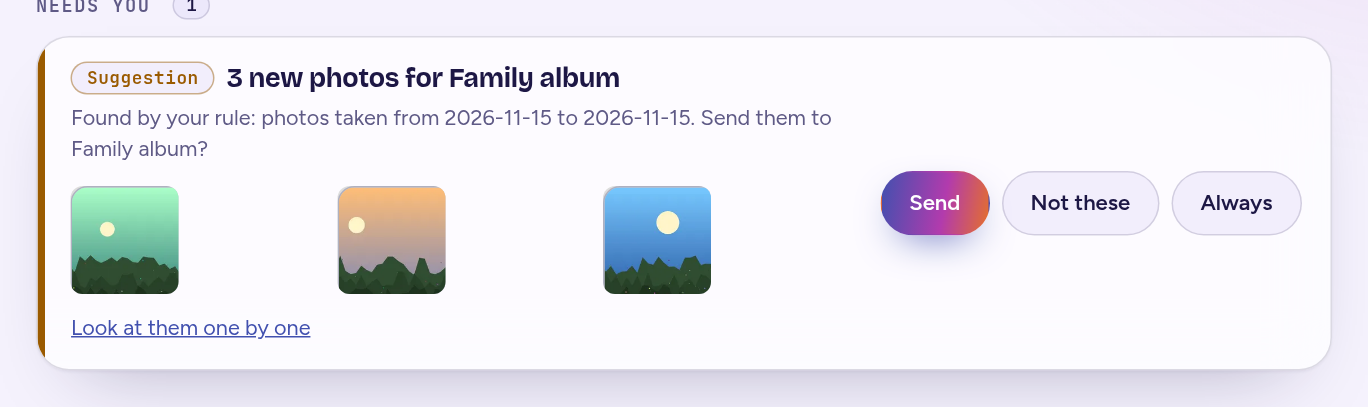
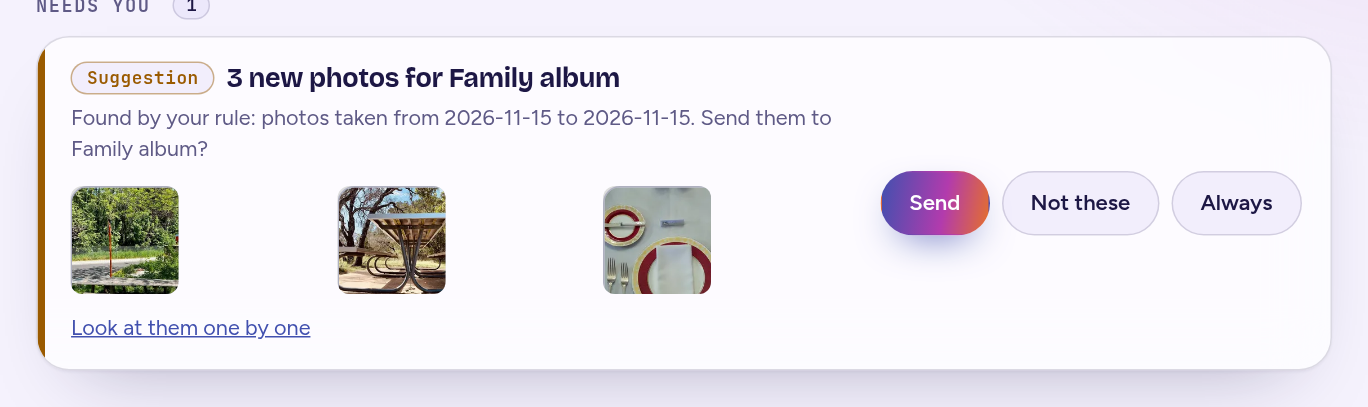
docs: the demo and its pictures use public-domain photos (with their credits) instead of generated landscapes

Changed region(s): [[0.0307, 0.4423, 0.1535, 0.7371], [0.4298, 0.4423, 0.5219, 0.7371], [0.2456, 0.4423, 0.3377, 0.7371]]

diff --git a/demo/seed.py b/demo/seed.py
@@ -1,6 +1,6 @@
 #!/usr/bin/env python3
 """Fills the demonstration (run by the `seed` service of demo/docker-compose.yml, once): an Immich administrator, three people, sample photos, and a little history in the app."""
-import io, json, math, os, random, sys, time, urllib.request, urllib.error, uuid
+import io, json, os, sys, time, urllib.request, urllib.error, uuid
 from datetime import datetime, timedelta, timezone
 from PIL import Image, ImageDraw, ImageFilter
 
@@ -39,52 +39,30 @@ def login(email, pw):
     cookies = "; ".join(c.split(";")[0] for c in h.get_all("Set-Cookie") or [])
     return j["accessToken"], cookies
 
-# ---- pictures: scenes with a sky, a sun, hills and some texture, so each one is different and sharp --------------------
-def scene(seed, w=1600, h=1067):
-    r = random.Random(seed)
-    palettes = [((255, 190, 120), (90, 120, 200)), ((120, 200, 255), (20, 60, 140)), ((255, 140, 160), (70, 40, 120)), ((250, 230, 150), (50, 150, 120)),
-                ((200, 220, 255), (60, 80, 120)), ((255, 170, 90), (40, 20, 60)), ((170, 255, 200), (20, 90, 100))]
-    top, bottom = palettes[seed % len(palettes)]
-    img = Image.new("RGB", (w, h))
-    px = img.load()
-    for y in range(h):
-        t = y / h
-        c = tuple(int(top[i] * (1 - t) + bottom[i] * t) for i in range(3))
-        for x in range(w): px[x, y] = c
-    d = ImageDraw.Draw(img)
-    sx, sy, sr = r.randint(w // 5, 4 * w // 5), r.randint(h // 8, h // 3), r.randint(50, 110)
-    d.ellipse([sx - sr, sy - sr, sx + sr, sy + sr], fill=(255, 245, 200))
-    for layer in range(4):
-        base = h * (0.55 + layer * 0.1)
-        col = tuple(max(0, int(c * (0.55 - layer * 0.1))) for c in (90, 140, 90))
-        pts = [(0, h)]
-        for x in range(0, w + 40, 40):
-            pts.append((x, base + 60 * math.sin(x / (110 + layer * 40) + r.random() * 6) + r.randint(-18, 18)))
-        pts.append((w, h))
-        d.polygon(pts, fill=col)
-    for _ in range(900):  # grain and detail, so the picture is sharp
-        x, y = r.randint(0, w - 1), r.randint(h // 2, h - 1)
-        d.point((x, y), fill=tuple(r.randint(30, 200) for _ in range(3)))
-    for _ in range(70):
-        x, y = r.randint(0, w), r.randint(h // 2, h)
-        d.rectangle([x, y, x + r.randint(2, 9), y + r.randint(2, 9)], fill=tuple(r.randint(20, 220) for _ in range(3)))
-    return img
+# ---- pictures: real photos from demo/photos (public domain, see photos/CREDITS.md) ----------------------------------------
+PHOTOS = os.path.join(os.path.dirname(os.path.abspath(__file__)), "photos")
+# who has what: Alice a trip to Innsbruck, Bob a party, Carol travels (the numbers are the file names' prefixes)
+OWNS = {1: [26, 27, 28, 29, 30, 32, 33], 2: [1, 3, 16, 17, 20, 25, 18], 3: [34, 35, 36, 37, 7, 10, 11]}
+
+def photo_file(n):
+    return next(f for f in sorted(os.listdir(PHOTOS)) if f.startswith(f"{n:02d}-"))
 
 def jpeg(img):
     b = io.BytesIO(); img.save(b, "JPEG", quality=88); return b.getvalue()
 
 def photos(owner_seed):
+    """Seven real photos, a near-duplicate of the first (for the duplicate check), a too-dark one and a blurry one."""
+    files = [photo_file(n) for n in OWNS[owner_seed]]
     out = []
-    for i in range(6):
-        out.append((f"scene-{owner_seed}-{i + 1}.jpg", jpeg(scene(owner_seed * 10 + i))))
-    base = scene(owner_seed * 10 + 7)
-    out.append((f"twin-a-{owner_seed}.jpg", jpeg(base)))
-    twin = base.copy(); twin.putpixel((5, 5), (1, 2, 3)); d = ImageDraw.Draw(twin); d.ellipse([20, 20, 60, 60], fill=(250, 250, 250))
-    out.append((f"twin-b-{owner_seed}.jpg", jpeg(twin)))
-    dark = scene(owner_seed * 10 + 8).point(lambda v: int(v * 0.06))
-    out.append((f"too-dark-{owner_seed}.jpg", jpeg(dark)))
-    blur = scene(owner_seed * 10 + 9).filter(ImageFilter.GaussianBlur(26))
-    out.append((f"blurry-{owner_seed}.jpg", jpeg(blur)))
+    for f in files:
+        out.append((f, open(os.path.join(PHOTOS, f), "rb").read()))
+    first = Image.open(os.path.join(PHOTOS, files[0])).convert("RGB")
+    twin = first.copy(); twin.putpixel((5, 5), (1, 2, 3)); d = ImageDraw.Draw(twin); d.ellipse([20, 20, 60, 60], fill=(250, 250, 250))
+    out.append(("twin-" + files[0], jpeg(twin)))
+    dark = Image.open(os.path.join(PHOTOS, files[1])).convert("RGB").point(lambda v: int(v * 0.06))
+    out.append(("too-dark-" + files[1], jpeg(dark)))
+    blur = Image.open(os.path.join(PHOTOS, files[2])).convert("RGB").filter(ImageFilter.GaussianBlur(26))
+    out.append(("blurry-" + files[2], jpeg(blur)))
     return out
 
 def upload(token, name, data, when):
@@ -125,7 +103,7 @@ def main():
         for i, (fname, data) in enumerate(photos(n)):
             ids[name].append(upload(tokens[name], fname, data, now - timedelta(days=7 - i % 6, hours=i)))
         print(name, "has", len(ids[name]), "photos")
-    s, album, _ = call("POST", IMMICH + "/albums", {"albumName": "Holiday", "assetIds": ids["alice"][:6]}, {"Authorization": "Bearer " + tokens["alice"]})
+    s, album, _ = call("POST", IMMICH + "/albums", {"albumName": "Holiday", "assetIds": ids["alice"][:7]}, {"Authorization": "Bearer " + tokens["alice"]})
     print("alice's album Holiday:", s)
 
     # a little history in the app: Alice offers "Family album" (open); Bob joins it and hands over five photos

diff --git a/tools/screenshots/inside.go b/tools/screenshots/inside.go
@@ -108,7 +108,9 @@ func insideShots(outdir string) {
 	// the viewer: the button, the list, the message
 	must("close the list", chromedp.KeyEvent("\x1b"))
 	var id string
-	must("a photo", chromedp.Evaluate(`document.querySelector('[data-thumbnail-focus-container]').dataset.asset`, &id))
+	tile := 3
+	fmt.Sscan(env("INSIDE_TILE", "3"), &tile) // which photo of the grid the viewer shows
+	must("a photo", chromedp.Evaluate(fmt.Sprintf(`document.querySelectorAll('[data-thumbnail-focus-container]')[%d].dataset.asset`, tile), &id))
 	must("open the viewer", chromedp.Navigate(base+"/photos/"+id))
 	wait("the button in the viewer", `document.getElementById('handoff-viewer-act') !== null`)
 	time.Sleep(1500 * time.Millisecond)

diff --git a/demo/photos/CREDITS.md b/demo/photos/CREDITS.md
@@ -1,0 +1,50 @@
+# Photo credits
+
+The sample photos in this folder are from Wikimedia Commons. Each one is released under CC0 or is in the public domain, as its file page says (checked on the day they were added). They are reduced to 1280 pixels wide and stripped of metadata; nothing else is changed. CC0 and public-domain works need no attribution, and it is given here anyway.
+
+| File | Title on Commons | Author | License | Source |
+|---|---|---|---|---|
+| 01-birthday-cake-bloomsburg-pennsylvania.jpg | Birthday Cake Bloomsburg, Pennsylvania.jpg | Tim-desser | CC0 | [file page](https://commons.wikimedia.org/wiki/File:Birthday_Cake_Bloomsburg,_Pennsylvania.jpg) |
+| 02-dinner-candle-on-table-at-night.jpg | Dinner candle on table at night.jpg | Sabalo22 | CC0 | [file page](https://commons.wikimedia.org/wiki/File:Dinner_candle_on_table_at_night.jpg) |
+| 03-flower-bouquet-2.jpg | Flower Bouquet-2.jpg | David Condrey | CC0 | [file page](https://commons.wikimedia.org/wiki/File:Flower_Bouquet-2.jpg) |
+| 04-flower-bouquet-edingen-neckarhausen.jpg | Flower bouquet, Edingen-Neckarhausen.jpg | Gerda Arendt | CC0 | [file page](https://commons.wikimedia.org/wiki/File:Flower_bouquet,_Edingen-Neckarhausen.jpg) |
+| 05-paper-lanterns-at-tongdosa-temple-01.jpg | Paper lanterns at Tongdosa Temple 01.jpg | Bernard Gagnon | CC0 | [file page](https://commons.wikimedia.org/wiki/File:Paper_lanterns_at_Tongdosa_Temple_01.jpg) |
+| 06-paper-lanterns-at-tongdosa-temple-02.jpg | Paper lanterns at Tongdosa Temple 02.jpg | Bernard Gagnon | CC0 | [file page](https://commons.wikimedia.org/wiki/File:Paper_lanterns_at_Tongdosa_Temple_02.jpg) |
+| 07-juan-griego-sunset.jpg | Juan Griego Sunset.jpg | Wilfredor | CC0 | [file page](https://commons.wikimedia.org/wiki/File:Juan_Griego_Sunset.jpg) |
+| 08-moraine-lake-17092005.jpg | Moraine Lake 17092005.jpg | Gorgo | Public domain | [file page](https://commons.wikimedia.org/wiki/File:Moraine_Lake_17092005.jpg) |
+| 09-herzog-friedrich-stra-e-in-innsbruck-s-h.jpg | Herzog-Friedrich-Straße in Innsbruck's Historic Old Town, Austria.jpg | Wilfredor | CC0 | [file page](https://commons.wikimedia.org/wiki/File:Herzog-Friedrich-Stra%C3%9Fe_in_Innsbruck%27s_Historic_Old_Town,_Austria.jpg) |
+| 10-forest-path-to-roche-du-taureau-cl-ron-2.jpg | Forest path to Roche du Taureau, Cléron, 2026.jpg | DimiTalen | CC0 | [file page](https://commons.wikimedia.org/wiki/File:Forest_path_to_Roche_du_Taureau,_Cl%C3%A9ron,_2026.jpg) |
+| 11-utah-dunes-landscape-west-desert-distric.jpg | Utah Dunes Landscape - West Desert District.jpg | Bureau of Land Management - Utah/Bob Wick | Public domain | [file page](https://commons.wikimedia.org/wiki/File:Utah_Dunes_Landscape_-_West_Desert_District.jpg) |
+| 12-a-wood-cabin-in-the-snow-unsplash.jpg | A wood cabin in the snow (Unsplash).jpg | Patrick Tomasso impatrickt | CC0 | [file page](https://commons.wikimedia.org/wiki/File:A_wood_cabin_in_the_snow_(Unsplash).jpg) |
+| 13-cat-sleeping-on-keyboard.jpg | Cat Sleeping on Keyboard.jpg | Panini! | CC0 | [file page](https://commons.wikimedia.org/wiki/File:Cat_Sleeping_on_Keyboard.jpg) |
+| 14-picnic-table-hoveniersdreef-heverlee.jpg | Picnic table Hoveniersdreef Heverlee.jpg | Landolso | CC0 | [file page](https://commons.wikimedia.org/wiki/File:Picnic_table_Hoveniersdreef_Heverlee.jpg) |
+| 15-picnic-table-curves.jpg | Picnic table curves.jpg | Hu Nhu | CC0 | [file page](https://commons.wikimedia.org/wiki/File:Picnic_table_curves.jpg) |
+| 16-pink-cupcakes.jpg | Pink Cupcakes.jpg | Jess Watters | CC0 | [file page](https://commons.wikimedia.org/wiki/File:Pink_Cupcakes.jpg) |
+| 17-champagne-glasses-1940262-1920.jpg | Champagne-glasses-1940262 1920.jpg | Myriam Zilles | CC0 | [file page](https://commons.wikimedia.org/wiki/File:Champagne-glasses-1940262_1920.jpg) |
+| 18-champagne-glasses-1.jpg | Champagne glasses 1.JPG | Antonio Borrillo | CC0 | [file page](https://commons.wikimedia.org/wiki/File:Champagne_glasses_1.JPG) |
+| 19-eisenhower-christmas-dinner-table-settin.jpg | Eisenhower Christmas Dinner Table Setting (0e4555ea-867c-4951-90d8-122d77544ebe).jpg | NPS Photo | Public domain | [file page](https://commons.wikimedia.org/wiki/File:Eisenhower_Christmas_Dinner_Table_Setting_(0e4555ea-867c-4951-90d8-122d77544ebe).jpg) |
+| 20-sparkler-at-night-unsplash.jpg | Sparkler at night (Unsplash).jpg | Karina Carvalho karinacarvalho | CC0 | [file page](https://commons.wikimedia.org/wiki/File:Sparkler_at_night_(Unsplash).jpg) |
+| 21-sparkler-traphillnc.jpg | Sparkler@TraphillNC.jpg | Kelley Bozarth | CC0 | [file page](https://commons.wikimedia.org/wiki/File:Sparkler@TraphillNC.jpg) |
+| 22-weddingring.jpg | Weddingring.JPG | CLW at English Wikipedia | Public domain | [file page](https://commons.wikimedia.org/wiki/File:Weddingring.JPG) |
+| 23-groom-touching-wedding-band-unsplash.jpg | Groom touching wedding band (Unsplash).jpg | Sweet Ice Cream Photography sweeticecreamphotography | CC0 | [file page](https://commons.wikimedia.org/wiki/File:Groom_touching_wedding_band_(Unsplash).jpg) |
+| 24-campfire-20221029-180021.jpg | Campfire 20221029 180021.jpg | 01x07x2022000 | CC0 | [file page](https://commons.wikimedia.org/wiki/File:Campfire_20221029_180021.jpg) |
+| 25-shop-of-lights-in-the-christmas-market-o.jpg | Shop of lights in the Christmas market of Strasbourg.jpg | Tangopaso | Public domain | [file page](https://commons.wikimedia.org/wiki/File:Shop_of_lights_in_the_Christmas_market_of_Strasbourg.jpg) |
+| 26-goldenes-dachl-from-innsbruck.jpg | Goldenes Dachl from Innsbruck.jpg | Wilfredor | CC0 | [file page](https://commons.wikimedia.org/wiki/File:Goldenes_Dachl_from_Innsbruck.jpg) |
+| 27-innsbruck-seen-from-lsg-nordkette-in-inn.jpg | Innsbruck seen from LSG Nordkette in Innsbruck-Arzl 2023-09-23 08.jpg | Leonhard Lenz | CC0 | [file page](https://commons.wikimedia.org/wiki/File:Innsbruck_seen_from_LSG_Nordkette_in_Innsbruck-Arzl_2023-09-23_08.jpg) |
+| 28-mariahilfstra-e-and-inn-in-innsbruck-202.jpg | Mariahilfstraße and Inn in Innsbruck 2026-05-07 09.jpg | Leonhard Lenz | CC0 | [file page](https://commons.wikimedia.org/wiki/File:Mariahilfstra%C3%9Fe_and_Inn_in_Innsbruck_2026-05-07_09.jpg) |
+| 29-mariahilfstra-e-and-inn-in-innsbruck-202.jpg | Mariahilfstraße and Inn in Innsbruck 2026-05-08 14.jpg | Leonhard Lenz | CC0 | [file page](https://commons.wikimedia.org/wiki/File:Mariahilfstra%C3%9Fe_and_Inn_in_Innsbruck_2026-05-08_14.jpg) |
+| 30-mariahilfstra-e-and-inn-in-innsbruck-202.jpg | Mariahilfstraße and Inn in Innsbruck 2026-05-10 02.jpg | Leonhard Lenz | CC0 | [file page](https://commons.wikimedia.org/wiki/File:Mariahilfstra%C3%9Fe_and_Inn_in_Innsbruck_2026-05-10_02.jpg) |
+| 31-innsbruck-in-the-evening.jpg | Innsbruck in the evening.jpg | Hermann Hammer (User:Haneburger) | CC0 | [file page](https://commons.wikimedia.org/wiki/File:Innsbruck_in_the_evening.jpg) |
+| 32-cable-car-at-hafelekar-station-innsbruck.jpg | Cable car at Hafelekar station, Innsbruck.jpg | Wilfredor | CC0 | [file page](https://commons.wikimedia.org/wiki/File:Cable_car_at_Hafelekar_station,_Innsbruck.jpg) |
+| 33-innsbruck-cathedral.jpg | Innsbruck Cathedral.jpg | Álvaro de la Paz Franco | CC0 | [file page](https://commons.wikimedia.org/wiki/File:Innsbruck_Cathedral.jpg) |
+| 34-coast-lighthouse-architecture.jpg | Coast Lighthouse Architecture.jpg | Holly's Coastal View | CC0 | [file page](https://commons.wikimedia.org/wiki/File:Coast_Lighthouse_Architecture.jpg) |
+| 35-banaue-rice-terrace-close-up-2.jpg | Banaue Rice Terrace Close Up (2).JPG | Agricmarketing at en.wikipedia | Public domain | [file page](https://commons.wikimedia.org/wiki/File:Banaue_Rice_Terrace_Close_Up_(2).JPG) |
+| 36-mt-hiei-with-cherry-blossom.jpg | Mt Hiei with Cherry Blossom.JPG | Hahifuheho | CC0 | [file page](https://commons.wikimedia.org/wiki/File:Mt_Hiei_with_Cherry_Blossom.JPG) |
+| 37-vineyard-and-hills-unsplash.jpg | Vineyard and hills (Unsplash).jpg | Tim Mossholder timmossholder | CC0 | [file page](https://commons.wikimedia.org/wiki/File:Vineyard_and_hills_(Unsplash).jpg) |
+| 38-new-brighton-beach-dog-exercise-area-09.jpg | New Brighton Beach dog exercise area 09.jpg | Aliceinthealice | CC0 | [file page](https://commons.wikimedia.org/wiki/File:New_Brighton_Beach_dog_exercise_area_09.jpg) |
+| 39-ducks-are-bathing-in-pond.jpg | Ducks are bathing in pond.jpg | Koshur | CC0 | [file page](https://commons.wikimedia.org/wiki/File:Ducks_are_bathing_in_pond.jpg) |
+| 40-coffee-and-recipe-on-a-table-unsplash.jpg | Coffee and recipe on a table (Unsplash).jpg | Brigitte Tohm brigittetohm | CC0 | [file page](https://commons.wikimedia.org/wiki/File:Coffee_and_recipe_on_a_table_(Unsplash).jpg) |
+| 41-blue-coffee-cup-unsplash.jpg | Blue coffee cup (Unsplash).jpg | rawpixel.com rawpixel | CC0 | [file page](https://commons.wikimedia.org/wiki/File:Blue_coffee_cup_(Unsplash).jpg) |
+| 42-paris-a-bookshop-with-filled-bookshelves.jpg | Paris - A bookshop with filled bookshelves and blurred light bulbs hanging from the ceiling.jpg | Janko Ferlič thepootphotographer | CC0 | [file page](https://commons.wikimedia.org/wiki/File:Paris_-_A_bookshop_with_filled_bookshelves_and_blurred_light_bulbs_hanging_from_the_ceiling.jpg) |
+
+No photo shows a recognisable person. If you find one that should not be here, please open an issue and it will be removed.

diff --git a/docs/find-handoff.md b/docs/find-handoff.md
@@ -56,7 +56,7 @@ Reload nginx, then reload an Immich page. If the page is `https://photos.example
 
 ## Hand over from inside Immich
 
-![Immich's photo viewer with the Hand over button in the toolbar and the list of services under it](images/immich-button-viewer-list.png)
+![Immich's photo viewer with the Hand over button in the toolbar and the list of services under it](images/immich-button-viewer-list.jpg)
 
 With the same one line in your proxy, the script also adds a **Hand over...** button to Immich's own pages, so nobody has to know about tags:
 
@@ -64,7 +64,7 @@ With the same one line in your proxy, the script also adds a **Hand over...** bu
 - in the **bar that appears when photos are selected**, before the three dots, for the selected photos;
 - as a **Hand over...** line in the three-dot menu of both.
 
-It opens a small list of **the services the person sends to**, each with whether the original stays or goes to the trash, and a note when photos will wait (the owner paused the service, the person paused their own sending, or a daily limit is reached). Choosing one hands the photos over exactly as if the service's tag had been put on them: the same pass, limits, quiet hours and taking back apply. A message in Immich's page says "3 photos handed over to Holiday" with **Undo** (it takes the tag off, so a pass that has not taken them yet leaves them) and a link to the app. ![A message in Immich's page: one photo handed over to Family album, with Undo and a link to the app](images/immich-button-done.png)
+It opens a small list of **the services the person sends to**, each with whether the original stays or goes to the trash, and a note when photos will wait (the owner paused the service, the person paused their own sending, or a daily limit is reached). Choosing one hands the photos over exactly as if the service's tag had been put on them: the same pass, limits, quiet hours and taking back apply. A message in Immich's page says "3 photos handed over to Holiday" with **Undo** (it takes the tag off, so a pass that has not taken them yet leaves them) and a link to the app. ![A message in Immich's page: one photo handed over to Family album, with Undo and a link to the app](images/immich-button-done.jpg)
 
 The service used last is offered first (kept in that browser only; **Forget my choice** clears it), and services whose owner decides appear under **Ask to join**, so a person can ask without leaving Immich. Words come in the person's language.
 

diff --git a/demo/README.md b/demo/README.md
@@ -14,11 +14,13 @@ Open **http://localhost:2295** and sign in to Immich as one of the people (passw
 
 | Who | Sign in | What they have |
 |---|---|---|
-| Alice | `alice@demo.test` | 10 photos, an album "Holiday", and two services she offers: **Family album** (open) and **Photo club** (she approves senders) |
-| Bob | `bob@demo.test` | 10 photos; he joined Family album and five of his photos were already handed over |
-| Carol | `carol@demo.test` | 10 photos, and no services yet: ask to join Photo club |
+| Alice | `alice@demo.test` | 10 photos (a trip to Innsbruck), an album "Holiday", and two services she offers: **Family album** (open) and **Photo club** (she approves senders) |
+| Bob | `bob@demo.test` | 10 photos (a party); he joined Family album and five of his photos were already handed over |
+| Carol | `carol@demo.test` | 10 photos (travels), and no services yet: ask to join Photo club |
 
 (The Immich administrator is `admin@demo.test` / `Demo-admin-1`.)
+
+The sample photos in `photos/` are public-domain or CC0 pictures from Wikimedia Commons, with no recognisable people; [`photos/CREDITS.md`](photos/CREDITS.md) lists the author, license and source of each. Each person also has a near-duplicate, a too-dark photo and a blurry one, so the duplicate and quality checks have something to show.
 
 The app is on the same address under **/handoff/**, and a small nginx puts a script into Immich's pages, so you see two things inside Immich itself: the Handoff icon in the header, and a **Hand over...** button in the photo viewer and when photos are selected.
 

diff --git a/README.md b/README.md
@@ -80,7 +80,7 @@ Everything below is recorded from the real page, in the dark or the light varian
 
 <table>
   <tr>
-    <td width="50%" valign="top"><img src="docs/images/immich-button-viewer-list.png" alt="Immich's photo viewer with a Hand over button in the toolbar and the list of services under it"><br><sub><b>A button inside Immich,</b> so nobody has to know about tags.</sub></td>
+    <td width="50%" valign="top"><img src="docs/images/immich-button-viewer-list.jpg" alt="Immich's photo viewer with a Hand over button in the toolbar and the list of services under it"><br><sub><b>A button inside Immich,</b> so nobody has to know about tags.</sub></td>
     <td width="50%" valign="top"><img src="docs/images/rules-suggestion.png" alt="A rule's suggestion on the Overview: three photos with Send, Not these and Always"><br><sub><b>Rules suggest,</b> you decide with one tap.</sub></td>
   </tr>
 </table>

diff --git a/docs/guides/automate.md b/docs/guides/automate.md
@@ -8,7 +8,7 @@
 
 ![A suggestion on the Overview: three new photos for Family album found by a rule, with Send, Not these and Always](../images/rules-suggestion.png)
 
-![Immich's selection bar with the Hand over button and the list of services](../images/immich-button-selection-list.png)
+![Immich's selection bar with the Hand over button and the list of services](../images/immich-button-selection-list.jpg)
 
 ## Rules: photos by who, where and when
 
